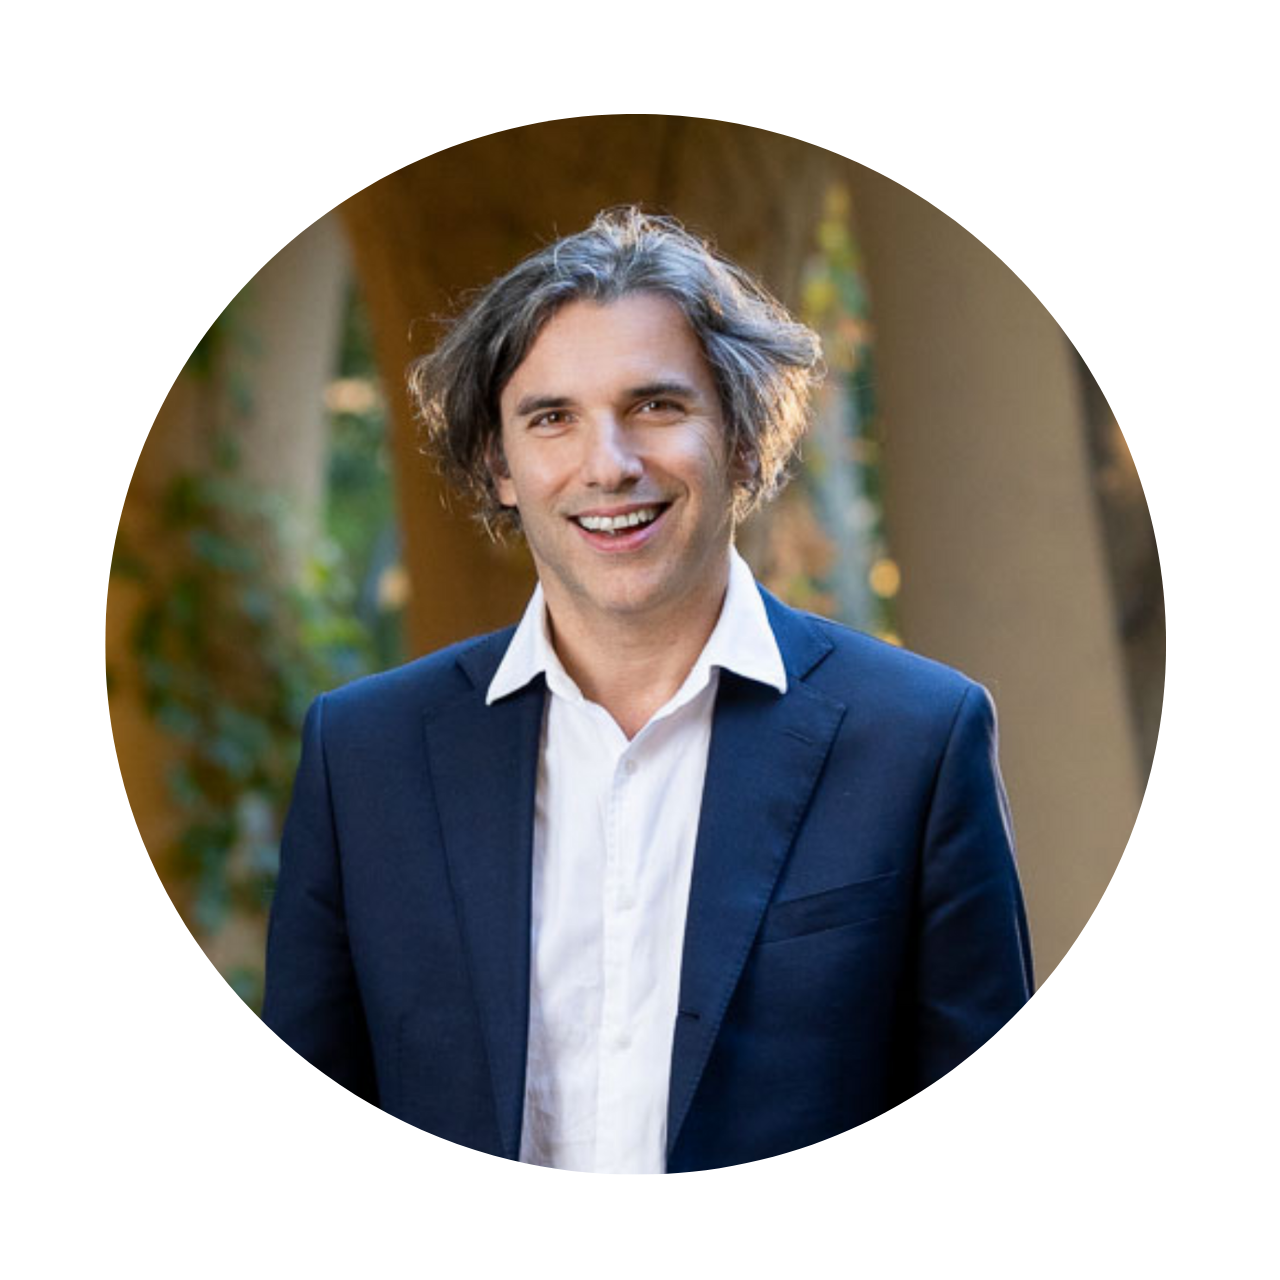
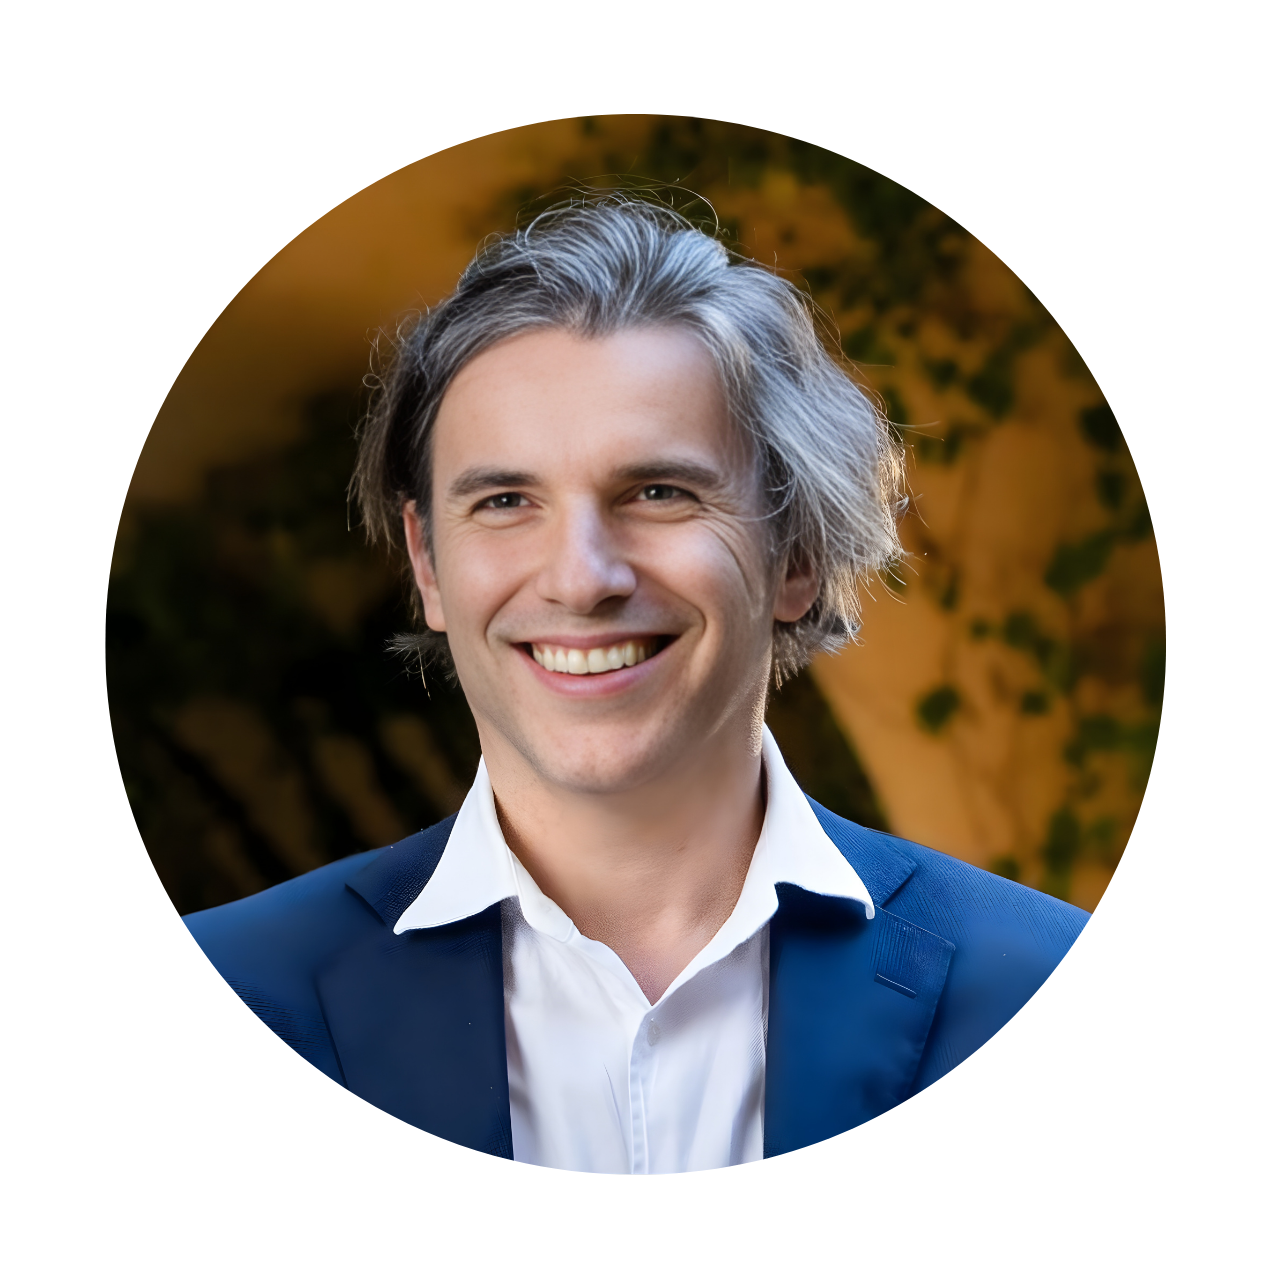
fix image marek

diff --git a/src/components/Home/themes/Themes.tsx b/src/components/Home/themes/Themes.tsx
@@ -138,7 +138,7 @@ export default function Themes() {
             >
               <div className="mx-auto w-48 overflow-hidden rounded-2xl">
                 <Image
-                  src="/keynote/keynote.png"
+                  src="/keynote/4.png"
                   alt="Prof. Marek Tesar"
                   width={300}
                   height={300}
